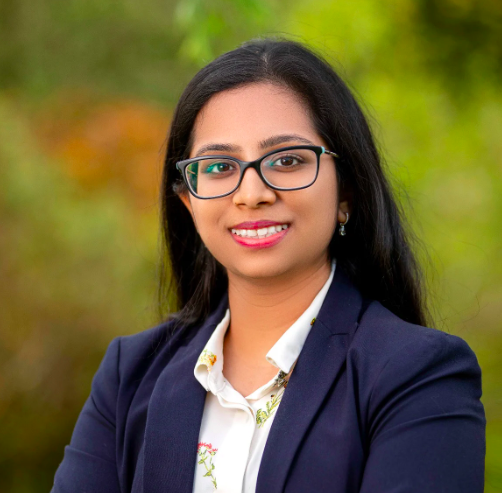
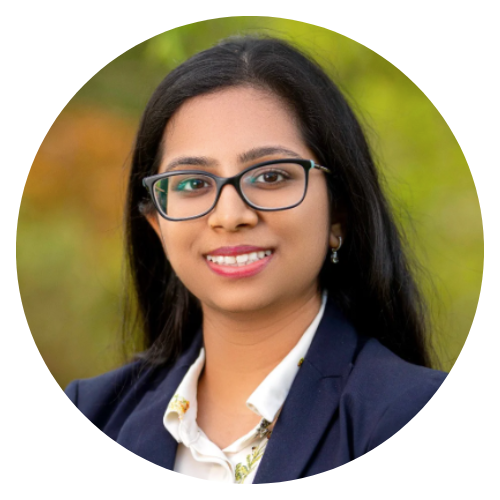
Update website navbar, header, and body with stylings and images

diff --git a/styles.css b/styles.css
@@ -10,8 +10,9 @@ body {
     width: 100%;
     display: flex;
     justify-content: space-between;
-    background-color: #BDA9D8;
+    background-color: #674FA7;
     align-items: center;
+    font-family: 'Montserrat', sans-serif;
   }
   
   .nav-links {
@@ -25,10 +26,12 @@ body {
     border-radius: 50%;
     margin-left: 20px;
   }
-  
+
   .social-icons {
     text-align: center;
+    padding-top: 60px;
   }
+
   a {
     padding: 8px 10px;
     font-size: 1.5rem;
@@ -36,7 +39,7 @@ body {
   
   .fixed-nav a {
     color: #ffffff;
-    text-decoration: underline dashed #C9A1FF 0.8px;
+    text-decoration: underline dotted #B6FFFB 3px;
   }
   
   .hero-section {
@@ -44,19 +47,13 @@ body {
     display: flex;
     align-items: center;
     justify-content: center;
-    /* background-image: linear-gradient(
-      0deg,
-      rgba(0, 0, 0, 0.4),
-      rgba(0, 0, 0, 0.4)
-    ), */
-    /* url("images/heroImage.jpg"); */
-    /*background-size: cover; */
   }
   
   .hero-subtitle {
     font-size: 1.7rem;
     color: #2f4858;
     font-family: 'Montserrat', sans-serif;
+    padding-top: 180px;
   }
 
   .hero-title {
@@ -68,35 +65,32 @@ body {
   .hero-desc {
     font-size: 2rem;
     height: 2rem;
+    color:#2f4858;
   }
-  
+
   .hero-text {
     text-align: center;
-    line-height: 20px;
+    line-height: 30px;
   }
   
   .resume-pdf {
     font-size: 1.7rem;
     color: #2f4858;
-    
     font-family: 'Montserrat', sans-serif;
-    
   }
 
-  .link {
+  .resume-link {
     text-decoration: none;
-    color:pink;
+    color:#674FA7;
     font-size: 1.7rem;
-    font-weight: bold;
+    font-style: italic;
   }
-
-
 
   .section-header {
     text-align: center;
     font-family: 'Oswald', sans-serif;
-    color: #33658A;
-    font-size: 50px;
+    color: #674FA7;
+    font-size: 60px;
     letter-spacing: 1.4px;
   }
   
@@ -132,25 +126,84 @@ body {
 
   .skills-container {
     display: grid;
-		grid-template-columns: repeat(3, 1fr);
+		grid-template-columns: repeat(5, 1fr);
 		grid-gap: 20px;
   }
 
   .skill {
-    width: 10vw;
+    width: -10vw;
     display: flex;
     flex-direction: column;
     align-items: center;
     text-align: center;
     justify-content: center;
-
-    
+    font-family: 'Montserrat', sans-serif;
+    color: #2f4858;
+    font-size: 20px;
+    line-height: 25px;
   }
 
   .skills-img {
     height: 30px;
   }
 
+  #skills {
+    padding: 2rem;
+  }
+
+  #portfolio {
+    padding: 2rem;
+  }
+
+  .portfolio-container {
+    display: flex;
+    justify-content: space-between;
+  }
+  
+  #portfolio {
+    padding: 2rem 6rem 2rem 6rem;
+    /* background-color: rgba(213, 17, 115, 0.127); */
+    background-color: transparent;
+  }
+  
+  .portfolio-item {
+    width: 40%;
+    text-align: center;
+    border: 3px #33658A solid;
+    border-radius: 25px;
+    border-style: dashed;
+    box-shadow: 5px 10px;
+    box-shadow: 5px 8px #674FA7;
+    background-color: white;
+    font-family: 'Montserrat', sans-serif;
+    color: #2f4858;
+    font-size: 16px;
+    line-height: 25px;
+  }
+  
+  .portfolio-item h2 {
+    padding-top: 10px;
+  }
+
+  .portfolio-item a {
+    text-decoration: none;
+    color:#674FA7;
+    font-size: 25px;
+    font-style: italic;
+  }
+  
+  .image-container img {
+    max-width: 100%;
+    max-height: 100%;
+  }
+
+  #mazedar {
+    padding: 2rem;
+  }
+
+  #books {
+    padding: 2rem;
+  }
 
   #contact {
     padding: 2rem;
@@ -166,35 +219,6 @@ body {
   /* about-container img {
     width: 25%;
     border-radius: 50% ; */
-
-    .portfolio-container {
-      display: flex;
-      justify-content: space-between;
-    }
-    
-    #portfolio {
-      padding: 2rem 6rem 2rem 6rem;
-      background-color: rgba(226, 218, 222, 0.5);
-    }
-    
-    .portfolio-item {
-      width: 40%;
-      text-align: center;
-      border: 1px #888888 solid;
-      border-radius: 25px;
-      box-shadow: 5px 10px;
-      box-shadow: 5px 8px #888888;
-      background-color: white;
-    }
-    
-    .portfolio-item h2 {
-      padding-top: 10px;
-    }
-    
-    .image-container img {
-      max-width: 100%;
-      max-height: 100%;
-    }
 
     .navbarPink {
       background-color: #33658A;

diff --git a/index.html b/index.html
@@ -35,11 +35,11 @@
 
   <section class="hero-section" id="home">
     <div class="hero-text">
-      <h3 class="hero-subtitle">👋🏼 Hi, thanks for stopping by!</h3>
+      <h3 class="hero-subtitle">🙋♀ Hi, thanks for stopping by!</h3>
       <h2 class="hero-title">I'm Shamayal Syed</h2>
       <span class="hero-desc" id="typed"></span>
       <div class="resume-pdf">
-        <p>view my<a href="images/Shamayal Syed - Resume.pdf" class="link">resume</a></p>
+        <p>view my<a href="images/Shamayal Syed - Resume.pdf" class="resume-link">resume</a></p>
       </div>
     </div>
   </section>
@@ -88,22 +88,45 @@
     <h1 class="section-header">Skills</h1>
     <div class="skills-container">
         <div class="skill">
-          <img alt="HTML" src="images/GitHub.png" width="30" height="30">
-          <p>Github</p>
+          <img alt="HTML" src="images/HTML.png" width="70" height="70">
+          <p>HTML</p>
         </div>
         <div class="skill">
-          <img alt="HTML" src="images/GitHub.png" width="30" height="30">
-          <p>Github</p>
+          <img alt="CSS" src="images/CSS.png" width="70" height="70">
+          <p>CSS</p>
         </div>
         <div class="skill">
-          <img alt="HTML" src="images/GitHub.png" width="30" height="30">
-          <p>Github</p>
+          <img alt="Java Script" src="images/JS.png" width="70" height="70">
+          <p>JavaScript</p>
         </div>
-        
-       
-        <img alt="CSS" src="images/GitHub.png" width="25 height=25">
-        <p>HTML, CSS, JS, Python</p>
-        <p>Microsoft Office, Adobe Photoshop, Adobe Fireworks</p>
+        <div class="skill">
+          <img alt="Node JS" src="images/NodeJS.png" width="70" height="70">
+          <p>NodeJS</p>
+        </div>
+        <div class="skill">
+          <img alt="Python" src="images/Python.png" width="70" height="70">
+          <p>Python</p>
+        </div>
+        <div class="skill">
+          <img alt="Microsoft Word" src="images/Word.png" width="70" height="70">
+          <p>Microsoft Word</p>
+        </div>
+        <div class="skill">
+          <img alt="Microsoft PowerPoint" src="images/PowerPoint.png" width="70" height="70">
+          <p>Microsoft PowerPoint</p>
+        </div>
+        <div class="skill">
+          <img alt="Microsoft Excel" src="images/Excel.png" width="70" height="70">
+          <p>Microsoft Excel</p>
+        </div>
+        <div class="skill">
+          <img alt="Adobe Photoshop" src="images/Photoshop.jpeg" width="70" height="70">
+          <p>Adobe Photoshop</p>
+        </div>
+        <div class="skill">
+          <img alt="Adobe Fireworks" src="images/Fireworks.png" width="70" height="70">
+          <p>Adobe Fireworks</p>
+        </div>
     </div>
   </section>
 
@@ -112,12 +135,12 @@
     <h1 class="section-header">Projects</h1>
     <div class="portfolio-container">
       <div class="portfolio-item">
-        <h2>To Do List</h2>
+        <h2>To-Do List</h2>
         <div class="image-container">
           <img src="images/todo-list.png" alt="to do list" />
         </div>
         <p>An app to create and delete tasks, and check them off.</p>
-        <a href="https://github.com/tandica/todo-list">View Project</a>
+        <a href="https://shamayal.github.io/To-Do-List/">View Project</a>
       </div>
       <div class="portfolio-item">
         <h2>My Sounds</h2>
@@ -125,7 +148,7 @@
           <img src="images/mysounds.jpg" alt="Playlist image" />
         </div>
         <p>An app that showcases the top hits of the 80's.</p>
-        <a href="https://github.com/tandica/mysound2">View Project</a>
+        <a href="https://shamayal.github.io/MySounds/">View Project</a>
       </div>
     </div>
   </section>
